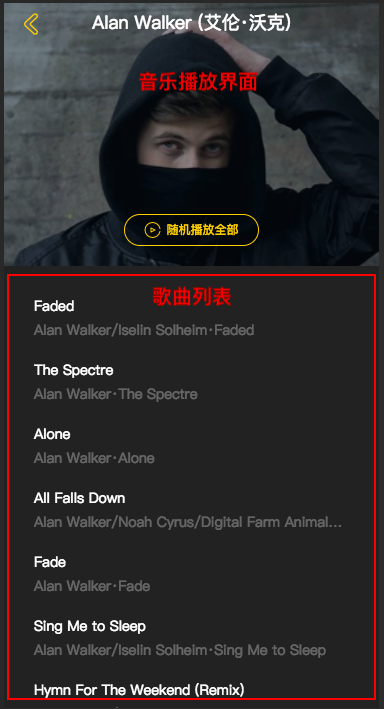
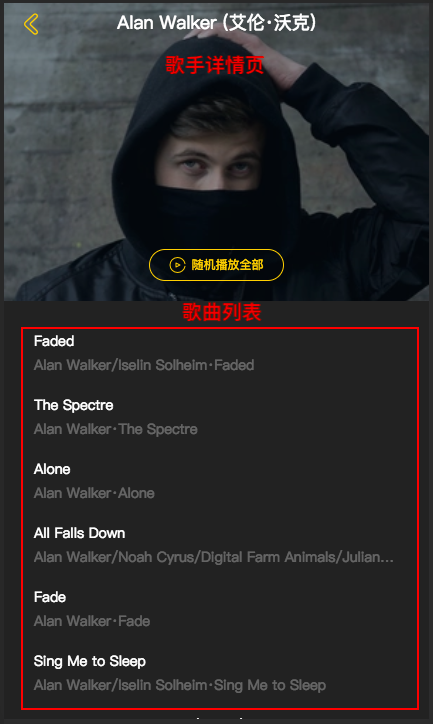
6-1: 歌手详情页: introduce

diff --git a/README.md b/README.md
@@ -265,8 +265,7 @@ cnpm install vue-lazyload --save
 *(loading.vue)* 
 
 
-## 6-1
-##### 音乐播放界面: introduce
+## 6-1: 歌手详情页: introduce
 
 
 ## 6-2
